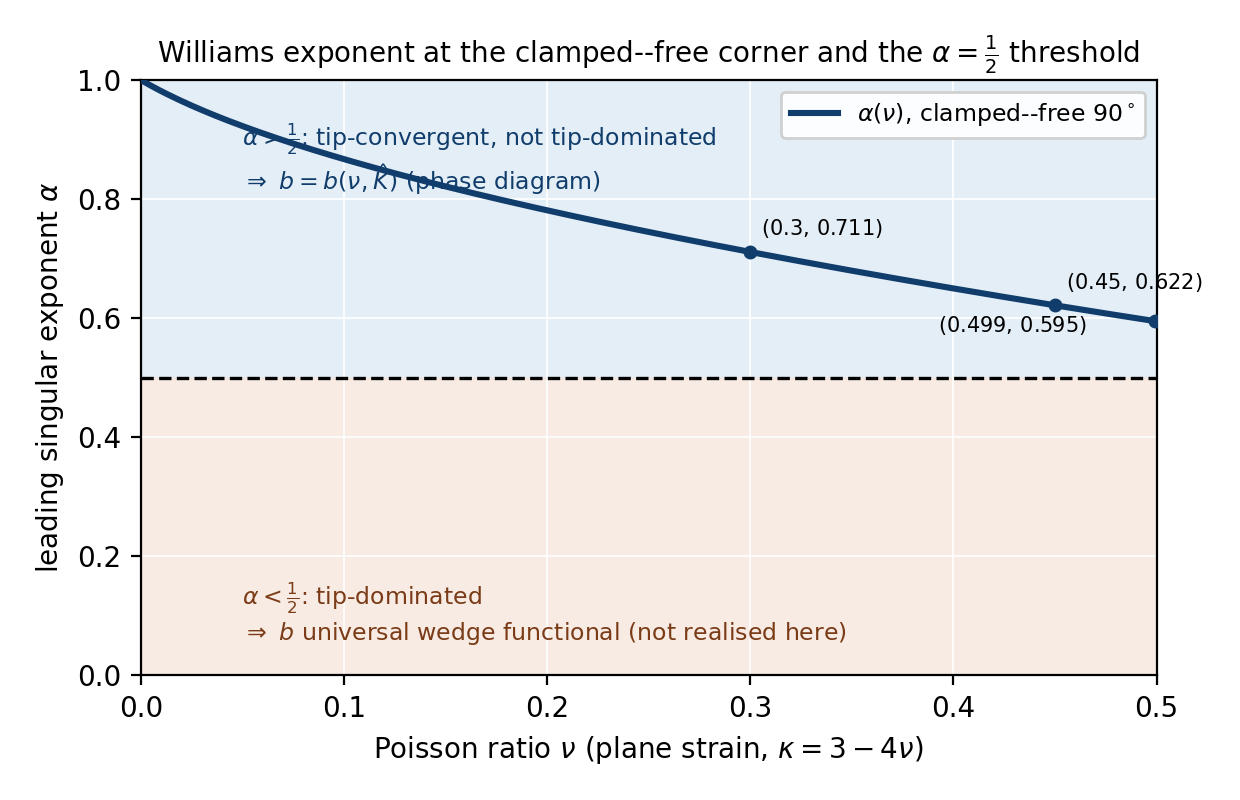
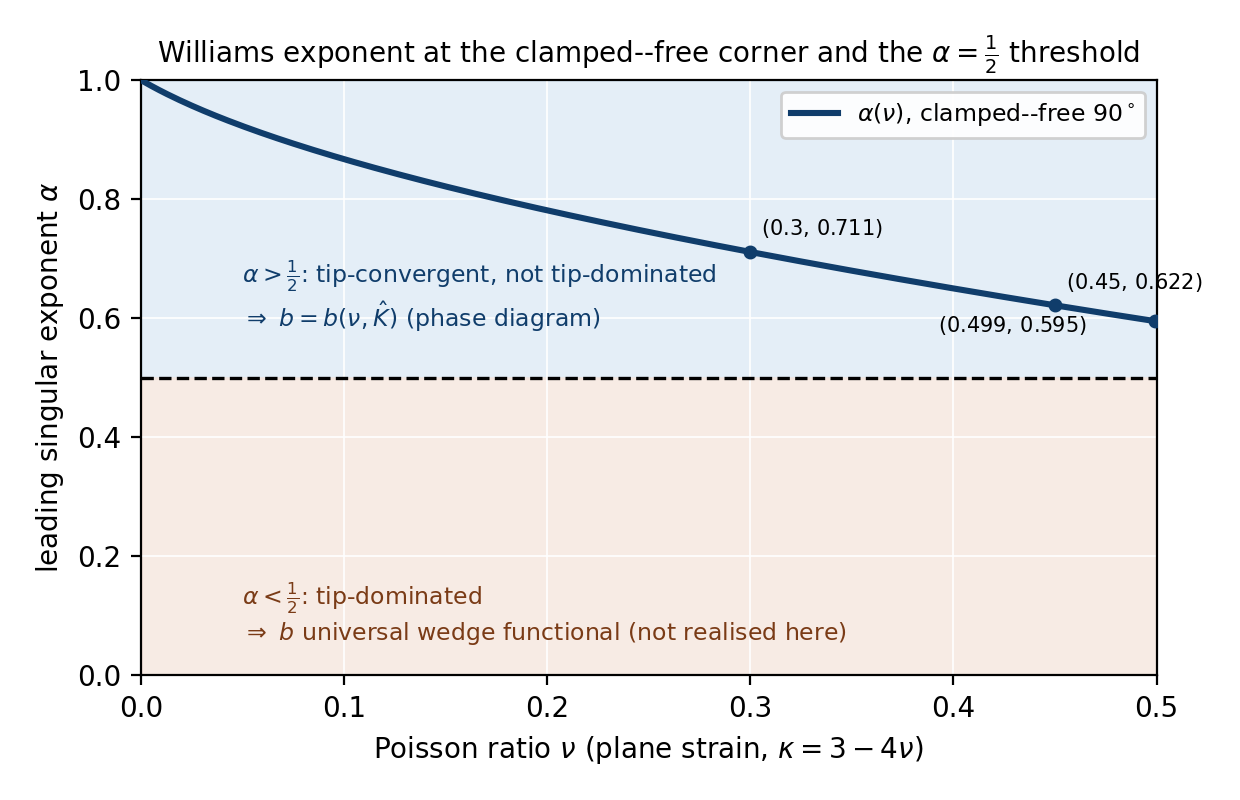
update figure

diff --git a/main.tex b/main.tex
@@ -1,3 +1,5 @@
+% Target journals (options)
+%% Journal of the Mechanics and Physics of Solids 
 \documentclass[11pt]{article}
 \usepackage[margin=1in]{geometry}
 \usepackage{algorithm}

diff --git a/plot_williams_exponent.py b/plot_williams_exponent.py
@@ -31,7 +31,7 @@ ax.plot(nus, alphas, color="#103d6b", lw=2.2, zorder=3,
 ax.axhline(0.5, color="k", ls="--", lw=1.2, zorder=2)
 
 # annotate the two regimes
-ax.text(0.05, 0.93, r"$\alpha>\frac{1}{2}$: tip-convergent, not tip-dominated"
+ax.text(0.05, 0.70, r"$\alpha>\frac{1}{2}$: tip-convergent, not tip-dominated"
         "\n" r"$\Rightarrow\ b=b(\nu,\hat K)$ (phase diagram)",
         fontsize=8.5, va="top", color="#103d6b")
 ax.text(0.05, 0.16, r"$\alpha<\frac{1}{2}$: tip-dominated"